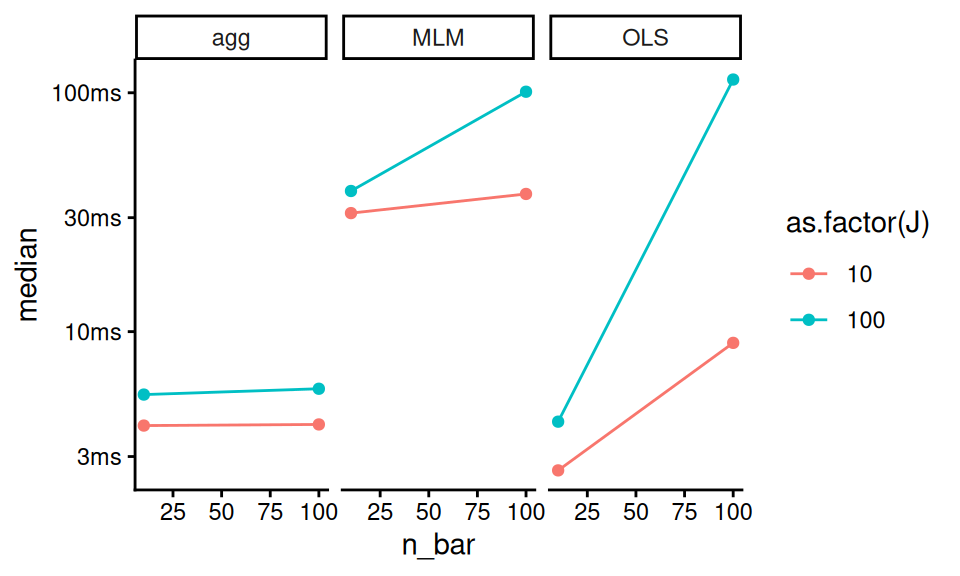
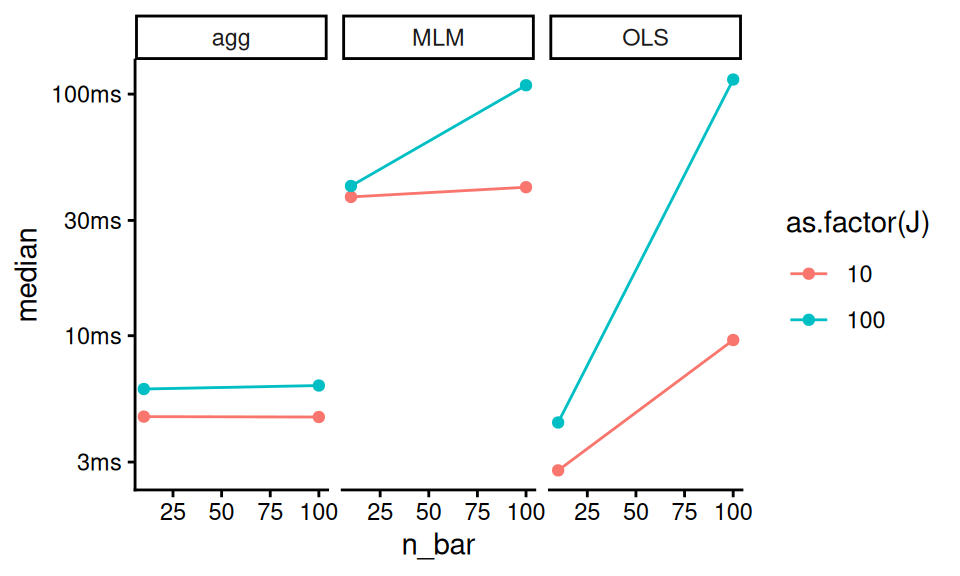
Deploying to gh-pages from @ jepusto/Designing-Simulations-in-R@aa9f6cae18e4cb44b63adde0b2c3fe1128ca3faa 🚀

diff --git a/coding-tidbits.html b/coding-tidbits.html
@@ -23,7 +23,7 @@
 <meta name="author" content="Luke W. Miratrix and James E. Pustejovsky (Equal authors)" />
 
 
-<meta name="date" content="2026-03-28" />
+<meta name="date" content="2026-04-01" />
 
   <meta name="viewport" content="width=device-width, initial-scale=1" />
   <meta name="apple-mobile-web-app-capable" content="yes" />
@@ -829,7 +829,7 @@ For example:</p>
 <div class="sourceCode" id="cb681"><pre class="sourceCode r"><code class="sourceCode r"><span id="cb681-1"><a href="coding-tidbits.html#cb681-1" tabindex="-1"></a>time <span class="ot">&lt;-</span> <span class="fu">system.time</span>( <span class="fu">rnorm</span>( <span class="dv">1000000</span> ) )</span>
 <span id="cb681-2"><a href="coding-tidbits.html#cb681-2" tabindex="-1"></a>time</span></code></pre></div>
 <pre><code>##    user  system elapsed 
-##   0.036   0.000   0.036</code></pre>
+##   0.037   0.000   0.037</code></pre>
 <p>Elapsed time is how much time actually passed.
 The user time is how much time your computer spent on the task at hand, not including if it paused to do something else (like deal with a mouse click or pop-up message).
 With current computers with multiple cores, you would expect user and elapsed time to be very similar.</p>
@@ -843,7 +843,7 @@ With current computers with multiple cores, you would expect user and elapsed ti
 <div class="sourceCode" id="cb687"><pre class="sourceCode r"><code class="sourceCode r"><span id="cb687-1"><a href="coding-tidbits.html#cb687-1" tabindex="-1"></a>end_time <span class="ot">&lt;-</span> <span class="fu">Sys.time</span>()</span>
 <span id="cb687-2"><a href="coding-tidbits.html#cb687-2" tabindex="-1"></a>tot_time <span class="ot">&lt;-</span> end_time <span class="sc">-</span> start_time</span>
 <span id="cb687-3"><a href="coding-tidbits.html#cb687-3" tabindex="-1"></a>tot_time</span></code></pre></div>
-<pre><code>## Time difference of 0.04879737 secs</code></pre>
+<pre><code>## Time difference of 0.0503819 secs</code></pre>
 <p>This can be useful, but be careful, as the time is stored along with the units. If your simulation takes a long time, it will flip from a lot of seconds to a few minutes, and you can end up thinking something that took much, much longer was actually fast.</p>
 </div>
 <div id="the-tictoc-package" class="section level3 hasAnchor" number="23.3.2">
@@ -874,9 +874,9 @@ For example, we can time how long it takes to analyze some data from our cluster
 <pre><code>## # A tibble: 3 × 6
 ##   expression      min   median `itr/sec` mem_alloc
 ##   &lt;bch:expr&gt; &lt;bch:tm&gt; &lt;bch:tm&gt;     &lt;dbl&gt; &lt;bch:byt&gt;
-## 1 MLM         99.34ms  99.61ms     10.0    25.71MB
-## 2 OLS        113.47ms 113.62ms      8.80    2.51MB
-## 3 agg          5.66ms   5.72ms    174.    426.57KB
+## 1 MLM        108.66ms 109.87ms      8.93   25.71MB
+## 2 OLS        114.31ms 114.76ms      8.72    2.51MB
+## 3 agg          5.87ms   7.86ms    130.    426.57KB
 ## # ℹ 1 more variable: `gc/sec` &lt;dbl&gt;</code></pre>
 <p>You can even get a viz of how long everything took:</p>
 <div class="sourceCode" id="cb693"><pre class="sourceCode r"><code class="sourceCode r"><span id="cb693-1"><a href="coding-tidbits.html#cb693-1" tabindex="-1"></a><span class="fu">plot</span>( timings )</span></code></pre></div>
@@ -988,21 +988,21 @@ To see the difference between our version and R’s version, we benchmark:</p>
 <tbody>
 <tr class="odd">
 <td align="left">Rfunction</td>
-<td align="right">473µs</td>
+<td align="right">472µs</td>
 <td align="right">505µs</td>
-<td align="right">1969.98</td>
+<td align="right">1952.65</td>
 <td align="right">1.00</td>
 </tr>
 <tr class="even">
 <td align="left">direct</td>
 <td align="right">214µs</td>
-<td align="right">224µs</td>
-<td align="right">4354.43</td>
-<td align="right">2.26</td>
+<td align="right">225µs</td>
+<td align="right">4311.23</td>
+<td align="right">2.24</td>
 </tr>
 </tbody>
 </table>
-<p>The direct function is 2.3 times faster than the built-in R function.</p>
+<p>The direct function is 2.2 times faster than the built-in R function.</p>
 <p>This result is not unusual.
 Built-in R functions usually include lots of checks and error-handling, which take time to compute. These checks are crucial for messy, real-world data analysis but unnecessary with our pristine, simulated data.
 Here we can skip them by doing the calculations directly.</p>
@@ -1036,38 +1036,22 @@ Optimize only if you need to!</p>
 ##  [1] 1 1 1 2 2 2 2 2 2 3 3 4 4 4 4
 ## 
 ## $x_mat
-##             [,1]        [,2]       [,3]
-##  [1,] -5.2005097  2.01699340  1.6035661
-##  [2,]  0.1345127  2.11139325  2.9613214
-##  [3,]  1.4405390  1.40857205  1.5261952
-##  [4,]  0.2670123  4.33952954  1.4822452
-##  [5,] -0.2759674 -0.02558369  1.8464065
-##  [6,]  3.1534465  1.37065837 -0.8678016
-##  [7,]  1.4740590  3.21720081  0.8781225
-##  [8,]  2.3535151  3.24049874  3.1910238
-##  [9,]  3.9882855  4.11766136  1.4341897
-## [10,]  7.2169065  6.29747990  5.7643177
-## [11,]  8.8121297  7.70534404  9.9647740
-## [12,]  5.8166998  7.49165244  6.2731197
-## [13,]  7.1027391  7.75844032  6.9955254
-## [14,]  5.9763112  6.74677203  5.3492514
-## [15,]  5.0065661  5.38330705  6.6533228
-##             [,4]
-##  [1,]  0.1086203
-##  [2,] -1.1850286
-##  [3,] -1.7439207
-##  [4,]  1.8236599
-##  [5,]  3.0819328
-##  [6,]  1.9088345
-##  [7,]  2.6407978
-##  [8,]  2.5685109
-##  [9,]  0.8006232
-## [10,]  8.5381809
-## [11,]  5.9400984
-## [12,]  5.2091605
-## [13,]  7.4696139
-## [14,]  7.0749609
-## [15,]  5.4613599</code></pre>
+##            [,1]       [,2]       [,3]        [,4]
+##  [1,] 0.8133558 -0.6122782 -1.3968864  3.02694557
+##  [2,] 0.9527534  0.9443644  1.2427709  0.08133576
+##  [3,] 1.2892521  0.4172662  2.9933193  2.68718428
+##  [4,] 1.9988118  1.7168453  0.3815670 -0.21984893
+##  [5,] 0.5706490  1.6898180 -0.3710635  3.30904235
+##  [6,] 2.1357754  3.4030466  5.3699860  3.74200623
+##  [7,] 2.9189315  3.5234268  2.7316571  2.70295104
+##  [8,] 0.5759604 -0.4670430  2.7976438  2.14736894
+##  [9,] 1.7893148  0.3506346  2.5062450  1.82956775
+## [10,] 5.6456396  6.2010991  8.5448812  7.97125693
+## [11,] 7.6399016  7.5720097  1.4331287  5.31642919
+## [12,] 5.7091377  6.1551357  6.3257941  5.79253186
+## [13,] 6.0871241  5.9952953  5.1144882  6.29065705
+## [14,] 5.3676516  7.6543865  5.2196499  7.23158223
+## [15,] 4.8301147  4.2835890  5.8563730  3.40673145</code></pre>
 <p>This approach is a bit more computationally efficient because the setup calculations (getting <code>N</code>, <code>g</code>, <code>group</code>, <code>mu_full</code>, and <code>sigma_full</code>) only have to be done once instead of once per replication. It also makes clever use of vector recycling in the call to <code>rnorm()</code>. However, the structure of the resulting data is more complicated, which will make it more difficult to do the later estimation steps.
 Furthermore, if the number of replicates <code>R</code> is large and each replication produces a large dataset, this “all-at-once” approach will entail generating and holding very large amounts of data in memory, which can create other performance issues.
 On balance, we recommend the simpler approach of writing a function that generates a single simulated dataset per call (unless and until you have a principled reason to do otherwise).
@@ -1096,10 +1080,10 @@ In particular, both <code>ANOVA_F</code> and <code>Welch_F</code> start by takin
 <div class="sourceCode" id="cb708"><pre class="sourceCode r"><code class="sourceCode r"><span id="cb708-1"><a href="coding-tidbits.html#cb708-1" tabindex="-1"></a>sim_data <span class="ot">=</span> <span class="fu">generate_data</span>(<span class="at">mu=</span>mu, <span class="at">sigma_sq=</span>sigma_sq, <span class="at">sample_size=</span>sample_size)</span>
 <span id="cb708-2"><a href="coding-tidbits.html#cb708-2" tabindex="-1"></a><span class="fu">summarize_data</span>(sim_data)</span></code></pre></div>
 <pre><code>## $x_bar
-## [1] 1.508610 2.476907 6.351820 6.164900
+## [1] 2.399740 2.786930 5.177409 5.828328
 ## 
 ## $s_sq
-## [1] 1.8415345 5.9636498 0.5704797 0.4356097
+## [1] 3.0400717 2.2437970 1.3425705 0.1634107
 ## 
 ## $n
 ## [1] 3 6 2 4</code></pre>
@@ -1119,7 +1103,7 @@ In particular, both <code>ANOVA_F</code> and <code>Welch_F</code> start by takin
 <span id="cb710-13"><a href="coding-tidbits.html#cb710-13" tabindex="-1"></a></span>
 <span id="cb710-14"><a href="coding-tidbits.html#cb710-14" tabindex="-1"></a>summary_stats <span class="ot">&lt;-</span> <span class="fu">summarize_data</span>(sim_data)</span>
 <span id="cb710-15"><a href="coding-tidbits.html#cb710-15" tabindex="-1"></a><span class="fu">with</span>(summary_stats, <span class="fu">ANOVA_F_agg</span>(<span class="at">x_bar =</span> x_bar, <span class="at">s_sq =</span> s_sq, <span class="at">n =</span> n))</span></code></pre></div>
-<pre><code>## [1] 0.009129375</code></pre>
+<pre><code>## [1] 0.01017524</code></pre>
 <div class="sourceCode" id="cb712"><pre class="sourceCode r"><code class="sourceCode r"><span id="cb712-1"><a href="coding-tidbits.html#cb712-1" tabindex="-1"></a>Welch_F_agg <span class="ot">&lt;-</span> <span class="cf">function</span>(x_bar, s_sq, n) {</span>
 <span id="cb712-2"><a href="coding-tidbits.html#cb712-2" tabindex="-1"></a>  g <span class="ot">=</span> <span class="fu">length</span>(x_bar)</span>
 <span id="cb712-3"><a href="coding-tidbits.html#cb712-3" tabindex="-1"></a>  w <span class="ot">&lt;-</span> n <span class="sc">/</span> s_sq</span>
@@ -1138,7 +1122,7 @@ In particular, both <code>ANOVA_F</code> and <code>Welch_F</code> start by takin
 <span id="cb712-16"><a href="coding-tidbits.html#cb712-16" tabindex="-1"></a>}</span>
 <span id="cb712-17"><a href="coding-tidbits.html#cb712-17" tabindex="-1"></a></span>
 <span id="cb712-18"><a href="coding-tidbits.html#cb712-18" tabindex="-1"></a><span class="fu">with</span>(summary_stats, <span class="fu">Welch_F_agg</span>(<span class="at">x_bar =</span> x_bar, <span class="at">s_sq =</span> s_sq, <span class="at">n =</span> n))</span></code></pre></div>
-<pre><code>## [1] 0.02176946</code></pre>
+<pre><code>## [1] 0.05850607</code></pre>
 <p>The results are the same as before.</p>
 <p>We should always test any optimized code against something we know is stable, since optimization is an easy way to get bad bugs.
 Here we check against R’s implementation:</p>
@@ -1183,9 +1167,9 @@ They are, however, available in the user-contributed package <code>onewaytests</
 <span id="cb721-12"><a href="coding-tidbits.html#cb721-12" tabindex="-1"></a><span class="fu">one_run_fast</span>( <span class="at">mu =</span> mu, <span class="at">sigma_sq =</span> sigma_sq,</span>
 <span id="cb721-13"><a href="coding-tidbits.html#cb721-13" tabindex="-1"></a>              <span class="at">sample_size =</span> sample_size )</span></code></pre></div>
 <pre><code>## # A tibble: 1 × 2
-##       ANOVA  Welch
-##       &lt;dbl&gt;  &lt;dbl&gt;
-## 1 0.0000731 0.0114</code></pre>
+##     ANOVA  Welch
+##     &lt;dbl&gt;  &lt;dbl&gt;
+## 1 0.00449 0.0270</code></pre>
 <p>The reason this is important is we are now doing our group aggregation only once, rather than once per method.
 We benchmark to see our speedup:</p>
 <div class="sourceCode" id="cb723"><pre class="sourceCode r"><code class="sourceCode r"><span id="cb723-1"><a href="coding-tidbits.html#cb723-1" tabindex="-1"></a>timings <span class="ot">&lt;-</span> bench<span class="sc">::</span><span class="fu">mark</span>(<span class="at">original =</span> <span class="fu">one_run</span>(<span class="at">mu =</span> mu, <span class="at">sigma_sq =</span> sigma_sq, </span>
@@ -1209,17 +1193,17 @@ We benchmark to see our speedup:</p>
 <tbody>
 <tr class="odd">
 <td align="left">original</td>
-<td align="right">1.43ms</td>
-<td align="right">1.48ms</td>
-<td align="right">663.54</td>
-<td align="right">1.00</td>
+<td align="right">1.46ms</td>
+<td align="right">1.51ms</td>
+<td align="right">649.14</td>
+<td align="right">1.0</td>
 </tr>
 <tr class="even">
 <td align="left">one_agg</td>
 <td align="right">1.21ms</td>
-<td align="right">1.24ms</td>
-<td align="right">797.94</td>
-<td align="right">1.19</td>
+<td align="right">1.26ms</td>
+<td align="right">784.60</td>
+<td align="right">1.2</td>
 </tr>
 </tbody>
 </table>

diff --git a/programming-preliminaries.html b/programming-preliminaries.html
@@ -23,7 +23,7 @@
 <meta name="author" content="Luke W. Miratrix and James E. Pustejovsky (Equal authors)" />
 
 
-<meta name="date" content="2026-03-28" />
+<meta name="date" content="2026-04-01" />
 
   <meta name="viewport" content="width=device-width, initial-scale=1" />
   <meta name="apple-mobile-web-app-capable" content="yes" />
@@ -680,13 +680,13 @@ LWM: Is this worth updating and including?  If included, cite in the text.
 <p>A function can do nearly anything as long as the calculation can be expressed in code—it can even produce output that is random.
 For example, the <code>rnorm()</code> function takes as input a number <code>n</code> and returns that many random numbers, drawn from a standard normal distribution:</p>
 <div class="sourceCode" id="cb2"><pre class="sourceCode r"><code class="sourceCode r"><span id="cb2-1"><a href="programming-preliminaries.html#cb2-1" tabindex="-1"></a><span class="fu">rnorm</span>(<span class="dv">3</span>)</span></code></pre></div>
-<pre><code>## [1]  0.720744682 -0.001090314  0.025694389</code></pre>
+<pre><code>## [1] -0.7993657 -1.4019528  0.7103539</code></pre>
 <p>Each time the function is called, it returns a different set of numbers:</p>
 <div class="sourceCode" id="cb4"><pre class="sourceCode r"><code class="sourceCode r"><span id="cb4-1"><a href="programming-preliminaries.html#cb4-1" tabindex="-1"></a><span class="fu">rnorm</span>(<span class="dv">3</span>)</span></code></pre></div>
-<pre><code>## [1] 0.7161518 0.1641646 0.8670699</code></pre>
+<pre><code>## [1]  0.81993492 -1.18532021 -0.08920697</code></pre>
 <p>The <code>rnorm()</code> function also has further input arguments that let the user specify the mean and standard deviation of the distribution from which numbers are drawn:</p>
 <div class="sourceCode" id="cb6"><pre class="sourceCode r"><code class="sourceCode r"><span id="cb6-1"><a href="programming-preliminaries.html#cb6-1" tabindex="-1"></a><span class="fu">rnorm</span>(<span class="dv">3</span>, <span class="at">mean =</span> <span class="dv">10</span>, <span class="at">sd =</span> <span class="fl">0.5</span>)</span></code></pre></div>
-<pre><code>## [1]  9.651398  9.360473 10.927555</code></pre>
+<pre><code>## [1] 10.145109  9.198574  9.940322</code></pre>
 <p>In writing code for simulations, we will make extensive use of this particular function and other functions that produce sequences of random numbers.
 We will have more to say about random number generation later.</p>
 <div id="rolling-your-own" class="section level3 hasAnchor" number="2.2.1">
@@ -712,11 +712,11 @@ Writing custom functions is also central to our approach to coding Monte Carlo s
 </ol>
 <p>Having created the function, we can then use it with any inputs that we like:</p>
 <div class="sourceCode" id="cb9"><pre class="sourceCode r"><code class="sourceCode r"><span id="cb9-1"><a href="programming-preliminaries.html#cb9-1" tabindex="-1"></a><span class="fu">one_pval</span>( <span class="dv">100</span>, <span class="dv">5</span>, <span class="dv">1</span> )</span></code></pre></div>
-<pre><code>## [1] 4.513e-74</code></pre>
+<pre><code>## [1] 1.417473e-67</code></pre>
 <div class="sourceCode" id="cb11"><pre class="sourceCode r"><code class="sourceCode r"><span id="cb11-1"><a href="programming-preliminaries.html#cb11-1" tabindex="-1"></a><span class="fu">one_pval</span>( <span class="dv">10</span>, <span class="fl">0.3</span>, <span class="dv">1</span> )</span></code></pre></div>
-<pre><code>## [1] 0.6010895</code></pre>
+<pre><code>## [1] 0.8561836</code></pre>
 <div class="sourceCode" id="cb13"><pre class="sourceCode r"><code class="sourceCode r"><span id="cb13-1"><a href="programming-preliminaries.html#cb13-1" tabindex="-1"></a><span class="fu">one_pval</span>( <span class="dv">10</span>, <span class="fl">0.3</span>, <span class="fl">0.2</span> )</span></code></pre></div>
-<pre><code>## [1] 0.0001692753</code></pre>
+<pre><code>## [1] 0.002847434</code></pre>
 <p>In each case, the output of the function is a p-value from a simulated sample of data. The function produces a different answer each time because its instructions involve generating random numbers each time it is called.
 In essence, our custom function is just a short-cut for carrying out its instructions.
 Writing it saves us from having to repeatedly write or copy-paste the lines of code inside its body.</p>

diff --git a/sec:power.html b/sec:power.html
@@ -23,7 +23,7 @@
 <meta name="author" content="Luke W. Miratrix and James E. Pustejovsky (Equal authors)" />
 
 
-<meta name="date" content="2026-03-28" />
+<meta name="date" content="2026-04-01" />
 
   <meta name="viewport" content="width=device-width, initial-scale=1" />
   <meta name="apple-mobile-web-app-capable" content="yes" />
@@ -1212,15 +1212,15 @@ The method in fact runs a multifactor experiment:</p>
 <pre><code>##   Simulating ■■■■■■■■■■■■■■■■■■■■■■■■■■■■■■■  100…</code></pre>
 <pre><code>## </code></pre>
 <pre><code>## → ICC = 0.10, n_within = 20, n_between = 5</code></pre>
-<pre><code>##   Simulating ■■■■■■■■■■■■■■■                  46/…</code></pre>
+<pre><code>##   Simulating ■■■■■■■■■■■■■                    40/…</code></pre>
 <pre><code>##   Simulating ■■■■■■■■■■■■■■■■■■■■■■■■■■■■■■■  100…</code></pre>
 <pre><code>## </code></pre>
 <pre><code>## → ICC = 0.10, n_within = 10, n_between = 10</code></pre>
-<pre><code>##   Simulating ■■■■                             11/…</code></pre>
+<pre><code>##   Simulating ■■                               3/1…</code></pre>
 <pre><code>##   Simulating ■■■■■■■■■■■■■■■■■■■■■■■■■■■■■■■  100…</code></pre>
 <pre><code>## </code></pre>
 <pre><code>## → ICC = 0.10, n_within = 20, n_between = 10</code></pre>
-<pre><code>##   Simulating ■■■■■■■■■■■■■■■■■■■■■            65/…</code></pre>
+<pre><code>##   Simulating ■■■■■■■■■■■                      34/…</code></pre>
 <pre><code>##   Simulating ■■■■■■■■■■■■■■■■■■■■■■■■■■■■■■■  100…</code></pre>
 <pre><code>## </code></pre>
 <pre><code>##                   value     mc_moe

diff --git a/index.html b/index.html
@@ -23,7 +23,7 @@
 <meta name="author" content="Luke W. Miratrix and James E. Pustejovsky (Equal authors)" />
 
 
-<meta name="date" content="2026-03-28" />
+<meta name="date" content="2026-04-01" />
 
   <meta name="viewport" content="width=device-width, initial-scale=1" />
   <meta name="apple-mobile-web-app-capable" content="yes" />
@@ -653,7 +653,7 @@ div.csl-indent {
 <h1 class="title">Designing Monte Carlo Simulations in R</h1>
 <p class="author"><em>Luke W. Miratrix and James E. Pustejovsky
 (Equal authors)</em></p>
-<p class="date"><em>March 28, 2026</em></p>
+<p class="date"><em>April 01, 2026</em></p>
 </div>
 <div id="welcome" class="section level1 unnumbered hasAnchor">
 <h1>Welcome<a href="index.html#welcome" class="anchor-section" aria-label="Anchor link to header"></a></h1>

diff --git a/building-good-visualization.html b/building-good-visualization.html
@@ -23,7 +23,7 @@
 <meta name="author" content="Luke W. Miratrix and James E. Pustejovsky (Equal authors)" />
 
 
-<meta name="date" content="2026-03-28" />
+<meta name="date" content="2026-04-01" />
 
   <meta name="viewport" content="width=device-width, initial-scale=1" />
   <meta name="apple-mobile-web-app-capable" content="yes" />

diff --git a/case-ANOVA.html b/case-ANOVA.html
@@ -23,7 +23,7 @@
 <meta name="author" content="Luke W. Miratrix and James E. Pustejovsky (Equal authors)" />
 
 
-<meta name="date" content="2026-03-28" />
+<meta name="date" content="2026-04-01" />
 
   <meta name="viewport" content="width=device-width, initial-scale=1" />
   <meta name="apple-mobile-web-app-capable" content="yes" />

diff --git a/case-study-comparing-different-estimators.html b/case-study-comparing-different-estimators.html
@@ -23,7 +23,7 @@
 <meta name="author" content="Luke W. Miratrix and James E. Pustejovsky (Equal authors)" />
 
 
-<meta name="date" content="2026-03-28" />
+<meta name="date" content="2026-04-01" />
 
   <meta name="viewport" content="width=device-width, initial-scale=1" />
   <meta name="apple-mobile-web-app-capable" content="yes" />

diff --git a/data-generating-processes.html b/data-generating-processes.html
@@ -23,7 +23,7 @@
 <meta name="author" content="Luke W. Miratrix and James E. Pustejovsky (Equal authors)" />
 
 
-<meta name="date" content="2026-03-28" />
+<meta name="date" content="2026-04-01" />
 
   <meta name="viewport" content="width=device-width, initial-scale=1" />
   <meta name="apple-mobile-web-app-capable" content="yes" />

diff --git a/debugging-and-testing.html b/debugging-and-testing.html
@@ -23,7 +23,7 @@
 <meta name="author" content="Luke W. Miratrix and James E. Pustejovsky (Equal authors)" />
 
 
-<meta name="date" content="2026-03-28" />
+<meta name="date" content="2026-04-01" />
 
   <meta name="viewport" content="width=device-width, initial-scale=1" />
   <meta name="apple-mobile-web-app-capable" content="yes" />

diff --git a/designing-multifactor-simulations.html b/designing-multifactor-simulations.html
@@ -23,7 +23,7 @@
 <meta name="author" content="Luke W. Miratrix and James E. Pustejovsky (Equal authors)" />
 
 
-<meta name="date" content="2026-03-28" />
+<meta name="date" content="2026-04-01" />
 
   <meta name="viewport" content="width=device-width, initial-scale=1" />
   <meta name="apple-mobile-web-app-capable" content="yes" />

diff --git a/estimation-procedures.html b/estimation-procedures.html
@@ -23,7 +23,7 @@
 <meta name="author" content="Luke W. Miratrix and James E. Pustejovsky (Equal authors)" />
 
 
-<meta name="date" content="2026-03-28" />
+<meta name="date" content="2026-04-01" />
 
   <meta name="viewport" content="width=device-width, initial-scale=1" />
   <meta name="apple-mobile-web-app-capable" content="yes" />

diff --git a/further-readings-and-resources.html b/further-readings-and-resources.html
@@ -23,7 +23,7 @@
 <meta name="author" content="Luke W. Miratrix and James E. Pustejovsky (Equal authors)" />
 
 
-<meta name="date" content="2026-03-28" />
+<meta name="date" content="2026-04-01" />
 
   <meta name="viewport" content="width=device-width, initial-scale=1" />
   <meta name="apple-mobile-web-app-capable" content="yes" />